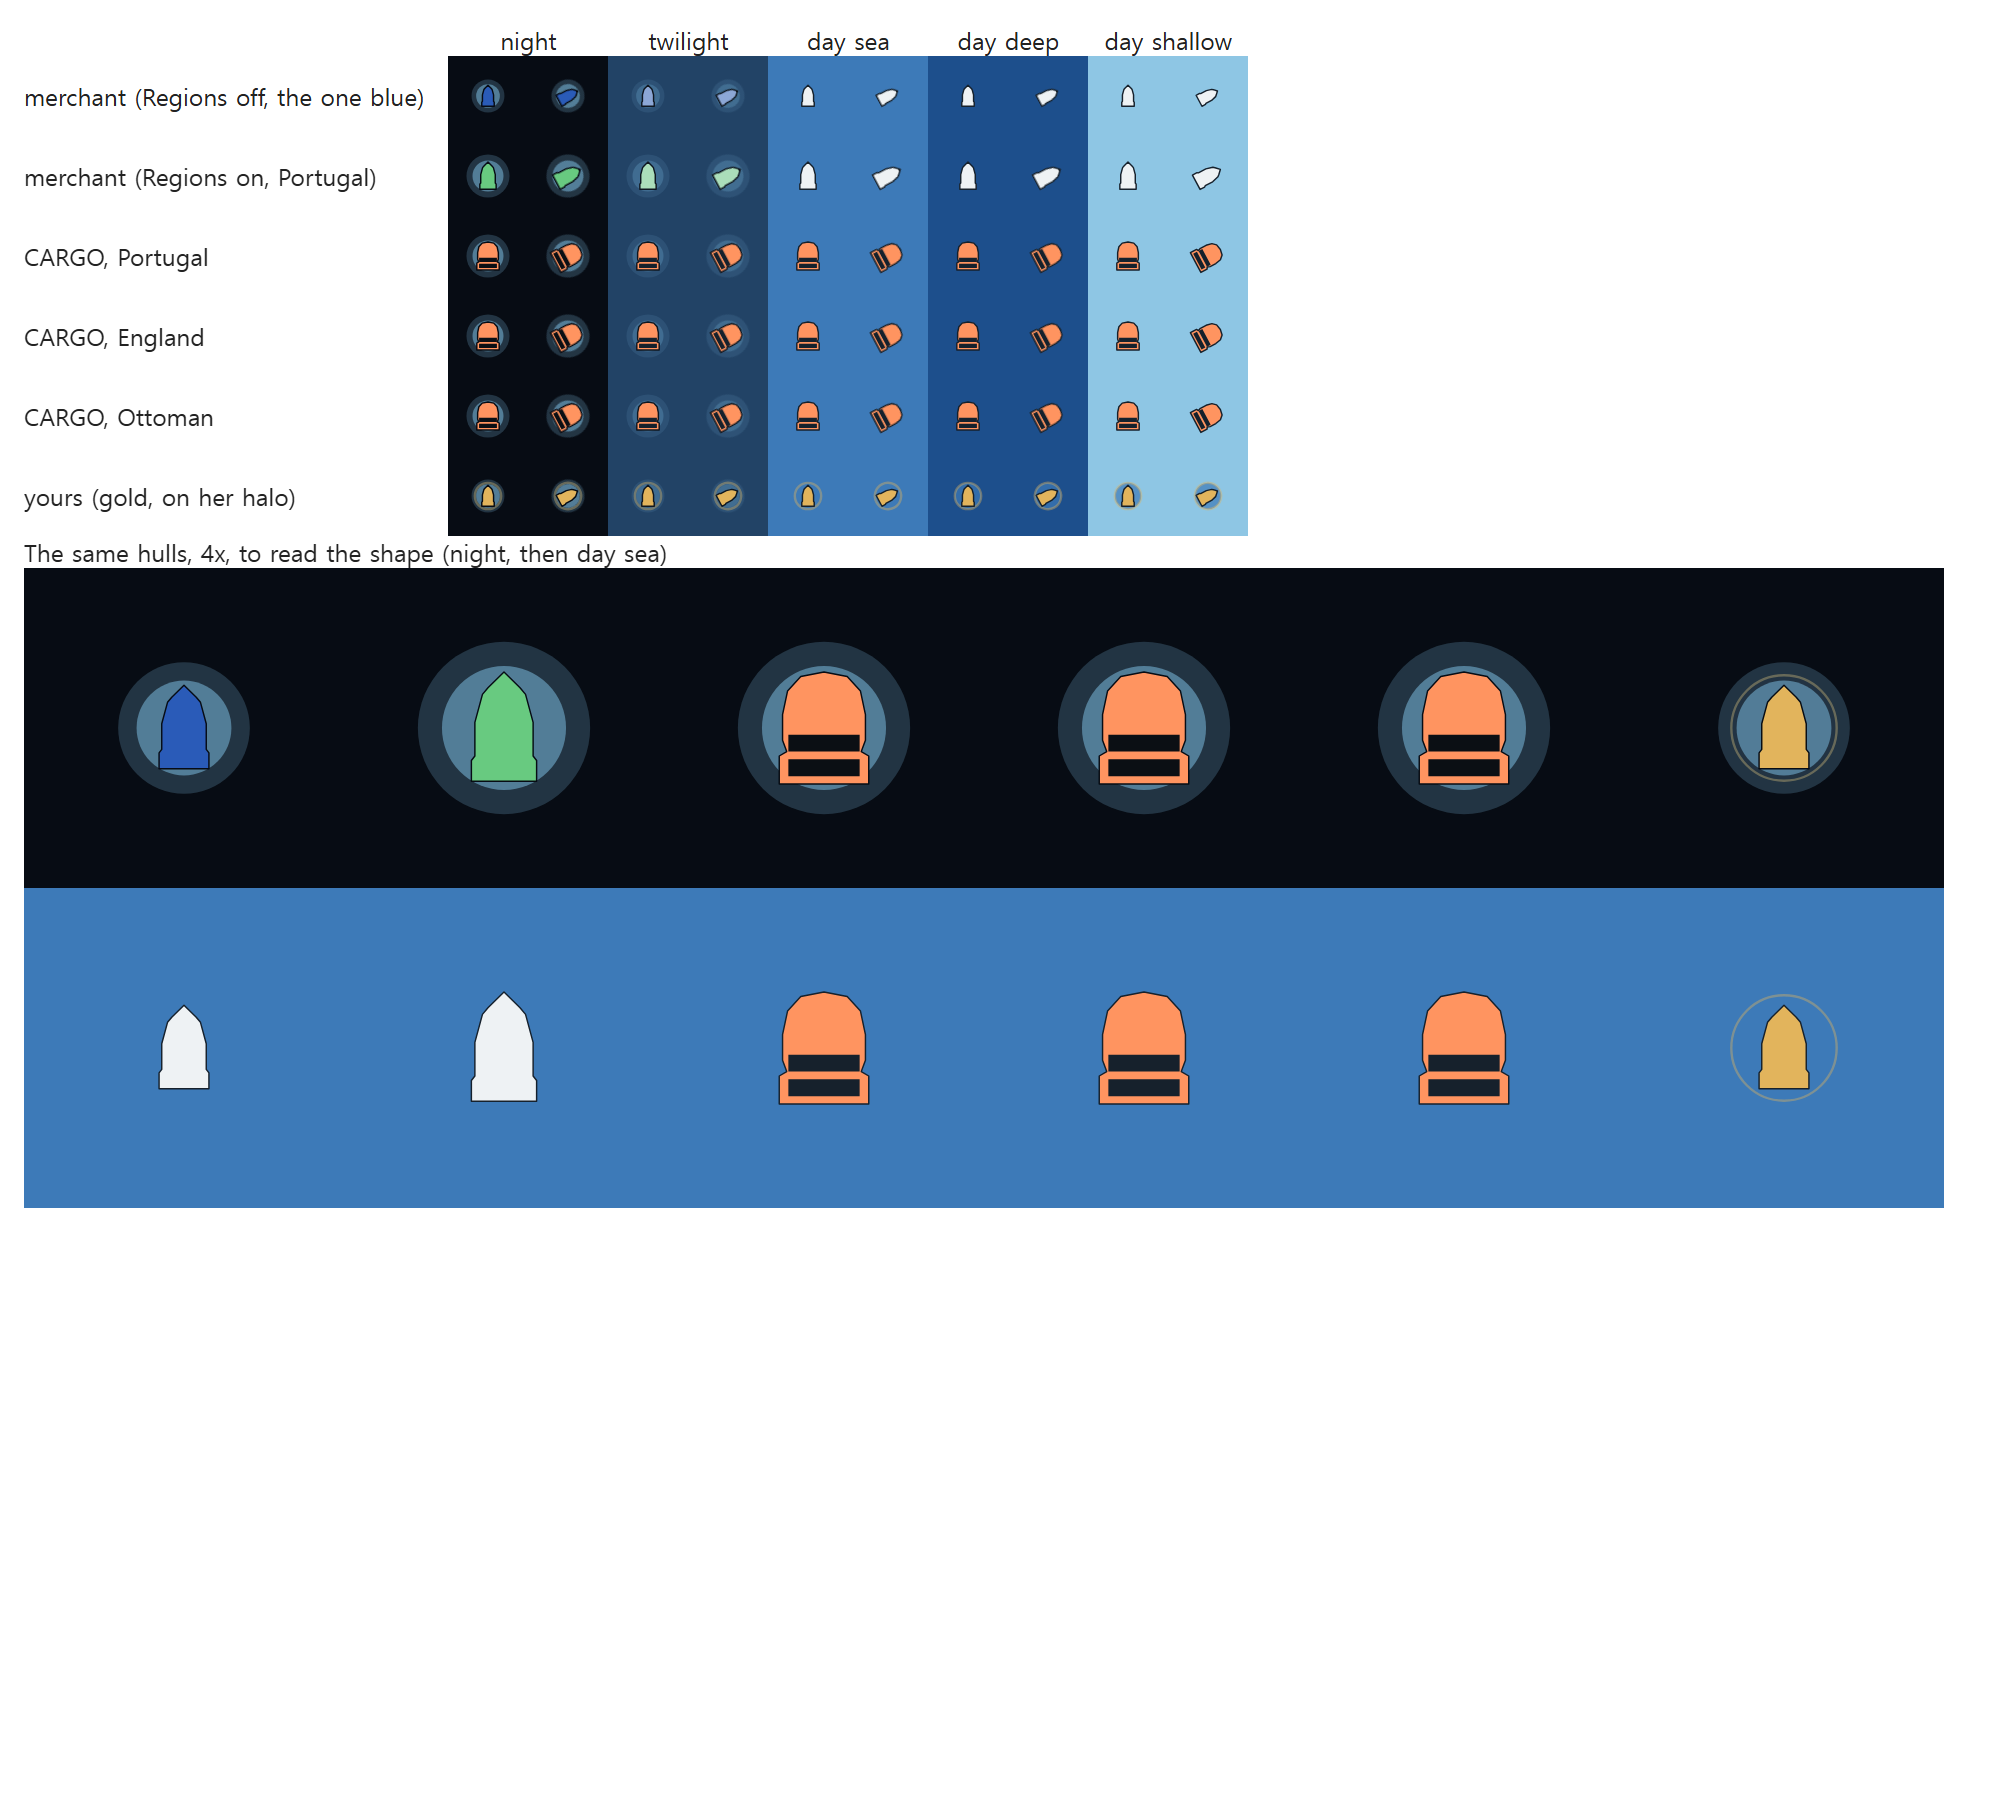
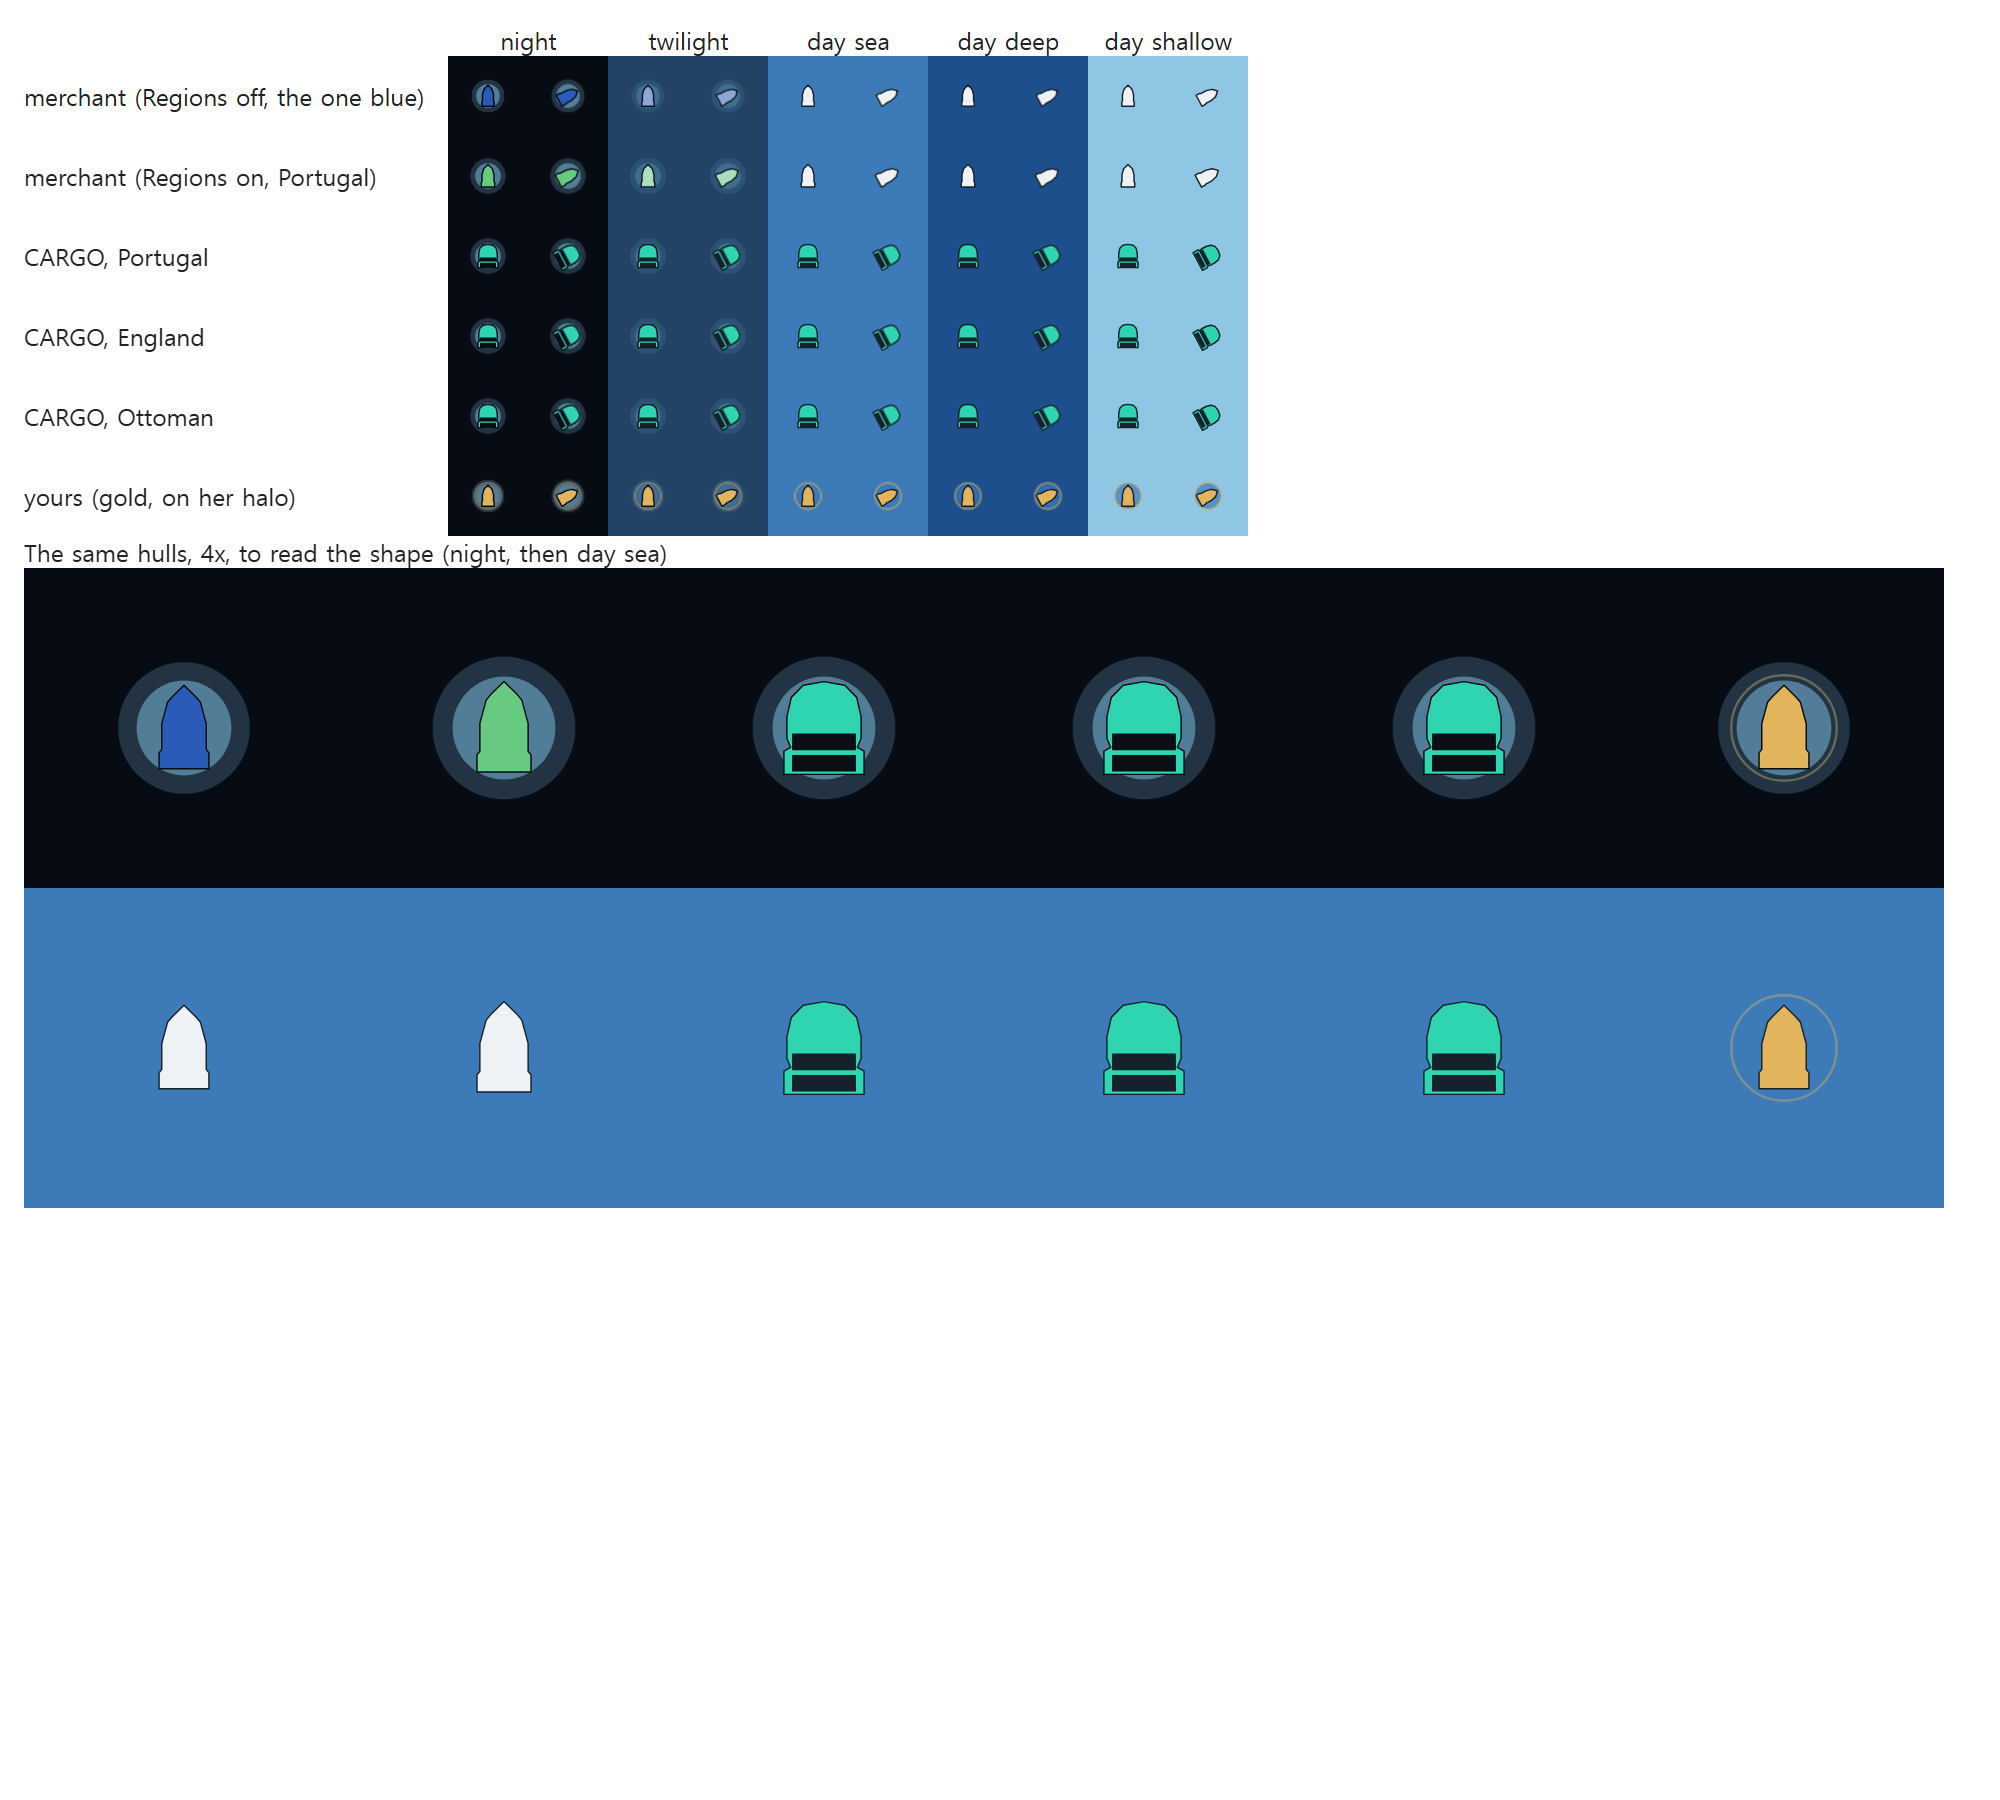
Cargo ship: teal green hull (#2fd4b0), half-length 7 to 5.8, thicker bars, wider beam

diff --git a/src/chart/glyphs.ts b/src/chart/glyphs.ts
@@ -140,12 +140,12 @@ export const GLYPH = {
    */
   hullHalfLength: { 1: 2.85, 2: 3.25, 3: 5.35, 4: 6.1, 5: 7.0, 6: 8.3 } as Record<HullSize, number>,
   /**
-   * THE CARGO SHIP (0310, docs/CITY_CONVOYS.md section 2): 7, the capital size, 15 % over the heavy galleon (6.1)
-   * and 31 % over the nau (5.35) that most merchants are (owner 2026-11-06: *"reduce size like normal ship but
-   * slightly bigger"*; it was 9). Her beam (`cargoHullPath`, 0.74 of her half-length against a merchant's 0.5)
+   * THE CARGO SHIP (0310, docs/CITY_CONVOYS.md section 2): 5.8, 8 % over the nau (5.35) that most merchants
+   * are and just under the heavy galleon (6.1) (owner 2026-11-06: *"reduce size like normal ship but slightly
+   * bigger"*, then *"change the size smaller too"*; it was 9, then 7). Her beam (`cargoHullPath`, 0.8 of her half-length against a merchant's 0.5)
    * keeps her the stoutest hull on the sheet. Not off her burthen: the map draws her by her kind.
    */
-  cargoHullHalfLength: 7,
+  cargoHullHalfLength: 5.8,
   /** The halo round a lone class-less hull — halved with `shipHalfLength` (8 → 4), since
    *  `hullGroupHalo` sizes every halo off that ratio. */
   fleetHaloRadius: 4,
@@ -673,7 +673,7 @@ function waveAHullPath(shape: Exclude<HullShape, 'cargo'>, l: number): string {
 
 /**
  * 0310 — THE CARGO SHIP (owner, 2026-11-05: *"cargo ship? with different graphics. npc like merchants but
- * different."*). WIDE AND DEEP-BELLIED: a blunt bow and a beam three quarters of her half-length, which no
+ * different."*). WIDE AND DEEP-BELLIED: a blunt bow and a beam four fifths of her half-length, which no
  * merchant has. A HIGH STERN: the waist tucks in and the after-castle steps out past the belly, ending in a
  * flat transom, so she is widest aft and reads as a tub with a castle on it at 18 px.
  *
@@ -681,7 +681,7 @@ function waveAHullPath(shape: Exclude<HullShape, 'cargo'>, l: number): string {
  * wide, and read as mush. What names her at 1x is two solid bars (`kindMarkPath`); the crown stays on her card.
  */
 function cargoHullPath(l: number): string {
-  const b = l * 0.74
+  const b = l * 0.8
   const hull = mirrored([[0, -l], [b * 0.56, -l * 0.92], [b * 0.88, -l * 0.66], [b, -l * 0.24], [b, l * 0.22],
     [b * 0.9, l * 0.42], [b * 1.08, l * 0.5], [b * 1.08, l], [0, l]])
   return hull
@@ -689,17 +689,17 @@ function cargoHullPath(l: number): string {
 
 /**
  * THE MARK A KIND WEARS ON HER DECK, centred on her hull, bow up, solid (never a hole). `bars`: two bars across
- * the beam, each 0.3 of her half-length thick (2.7 px at the cargo ship's 9, so never under 2 px at her
+ * the beam, each 0.36 of her half-length thick (2.1 px at the cargo ship's 5.8, so never under 2 px at her
  * `minHalfLength`), kept just inside the hull's outline so her keyline still runs round her.
  */
 export function kindMarkPath(mark: KindMark, halfLength: number): string {
   const l = halfLength
-  const w = l * 0.74 * 0.86
-  const t = l * 0.3
+  const w = l * 0.8 * 0.86
+  const t = l * 0.36
   const bar = (top: number) => `M${-w} ${top}L${w} ${top}L${w} ${top + t}L${-w} ${top + t}Z`
   switch (mark) {
     case 'bars':
-      return bar(l * 0.12) + bar(l * 0.12 + t + l * 0.14)
+      return bar(l * 0.12) + bar(l * 0.12 + t + l * 0.1)
   }
 }
 

diff --git a/tests/cargo.design.spec.ts b/tests/cargo.design.spec.ts
@@ -88,10 +88,10 @@ test.describe('the hull', () => {
     }
   })
 
-  test('she is wider, longer and heavier in ink than any ordinary merchant (sizes 1-4; the rare capitals and flagships may outsize her, 2026-11-06)', () => {
+  test('she is wider, longer and heavier in ink than any ordinary merchant (sizes 1-3, up to the nau; the heavy galleon, capitals and flagships may outsize her, 2026-11-06)', () => {
     const hull = subpaths(hullPath(CARGO_HULL))[0]
     const ink = inkOf(hullPath(CARGO_HULL))
-    for (const c of MERCHANT_CLASSES.filter((m) => m.size <= 4)) {
+    for (const c of MERCHANT_CLASSES.filter((m) => m.size <= 3)) {
       const theirs = subpaths(hullPath(c.code))[0]
       expect(widthOf(hull), `wider than ${c.code}`).toBeGreaterThan(widthOf(theirs))
       expect(lengthOf(hull), `longer than ${c.code}`).toBeGreaterThan(lengthOf(theirs))
@@ -120,7 +120,7 @@ test.describe('the hull', () => {
     const marks = hullGroup([CARGO_HULL], 0.01)
     expect(marks).toHaveLength(1)
     expect(marks[0]).toMatchObject({ cls: CARGO_HULL, dx: 0, dy: 0, halfLength: hullHalfLengthOf(CARGO_HULL) })
-    expect(hullHalfLengthOf(CARGO_HULL)).toBeGreaterThan(GLYPH.hullHalfLength[4])
+    expect(hullHalfLengthOf(CARGO_HULL)).toBeGreaterThan(GLYPH.hullHalfLength[3])
     expect(HULL_GROUP_MAX).toBe(3)
   })
 

diff --git a/tests/map.kinds.spec.ts b/tests/map.kinds.spec.ts
@@ -315,10 +315,10 @@ test.describe('one renderer, one table', () => {
     expect(glyphs.KIND_LOOK.yours.mark).toBeNull()
   })
 
-  test('size: cargo is drawn at 7, above the heavy galleon, no longer than the flagship, and is never thinned', () => {
-    expect(glyphs.GLYPH.cargoHullHalfLength).toBe(7)
-    expect(glyphs.GLYPH.cargoHullHalfLength).toBeGreaterThan(glyphs.GLYPH.hullHalfLength[4])
-    expect(glyphs.GLYPH.cargoHullHalfLength).toBeLessThanOrEqual(glyphs.GLYPH.hullHalfLength[6])
+  test('size: cargo is drawn at 5.8, above the nau (the ordinary merchant), just under the heavy galleon, and is never thinned', () => {
+    expect(glyphs.GLYPH.cargoHullHalfLength).toBe(5.8)
+    expect(glyphs.GLYPH.cargoHullHalfLength).toBeGreaterThan(glyphs.GLYPH.hullHalfLength[3])
+    expect(glyphs.GLYPH.cargoHullHalfLength).toBeLessThan(glyphs.GLYPH.hullHalfLength[4])
     expect(glyphs.KIND_LOOK.cargo.thin).toBe(false)
     expect(glyphs.KIND_LOOK.cargo.fill.token).toBe('var(--color-cargo-hull)')
     expect(glyphs.KIND_LOOK.merchant.fill.token).toBeNull()

diff --git a/src/index.css b/src/index.css
@@ -191,7 +191,7 @@
   --color-merchant: #2a5bb8;
   --color-kind-mark: #0b0f14;
   /* The ONE colour of every cargo ship's hull, day and night (glyphs.ts KIND_LOOK.cargo.fill.token). */
-  --color-cargo-hull: #ff9460;
+  --color-cargo-hull: #2fd4b0;
 
   /* ── THE PICTURE (2026-09-13, owner row 90: "map should be much more graphic... it is too
      blank") — five more chart inks, and the three above are UNCHANGED, because

diff --git a/docs/dev-log/2026-11-06-cargo-colour.md b/docs/dev-log/2026-11-06-cargo-colour.md
@@ -12,3 +12,11 @@ Owner: *"unify the color of cargoship. and make more, reduce size like normal sh
 ## Proof
 
 `tests/map.kinds.spec.ts` (contrast law, one colour for 8 nations at night and by day, size) and `tests/cargo.design.spec.ts`, plus `map.hulls` and `map.wrap`, pass. Pictures at 1x and 2x: `docs/dev-log/2026-11-06-cargo-colour/kinds-1x.png`, `kinds-2x.png`.
+
+## Update (owner, later 2026-11-06: "don't like the color. change the size smaller too")
+
+- **Colour.** `--color-cargo-hull` is now #2fd4b0, a teal green (was coral #ff9460). Still one token, still no other colour logic. The law holds on every ground: the hull fill or keyline is at least 3 : 1 (day sea fill 2.39 but keyline 3.63; day deep fill 4.38; night 10.42; day shallow keyline 8.81; twilight steps pass), and the bars are 8.67 : 1 or better on the fill.
+- **Size.** `cargoHullHalfLength` 7 to 5.8: 8 % over the nau (5.35), 5 % under the heavy galleon (6.1). She no longer exceeds the galleon, only ordinary merchants up to the nau. `tests/cargo.design.spec.ts` now compares her with sizes 1 to 3 and says so.
+- **Bars.** At 5.8 the old 0.3 proportion gave 1.74 px, under the 2 px rule. Bar thickness is now 0.36 of the half-length = 2.09 px, gap 0.1 (both bars end at 0.94 of the half-length, inside the hull). The size was not touched for this.
+- **Beam.** 0.74 to 0.8 of the half-length (hull and bar width both): at the smaller size she differed from the capital hull by 19.6 % of her area, under the 20 % silhouette test; the wider beam restores it.
+- **Proof.** Headless render of the real FleetsLayer on the built stylesheet (no live game, no writes), DPR 1 and 2, night, twilight and three day grounds: `docs/dev-log/2026-11-06-cargo-colour/kinds-1x.png`, `kinds-2x.png` (regenerated). Specs map.kinds, cargo.design, map.hulls, map.wrap: 45 passed, 2 skipped (they need a served build).
